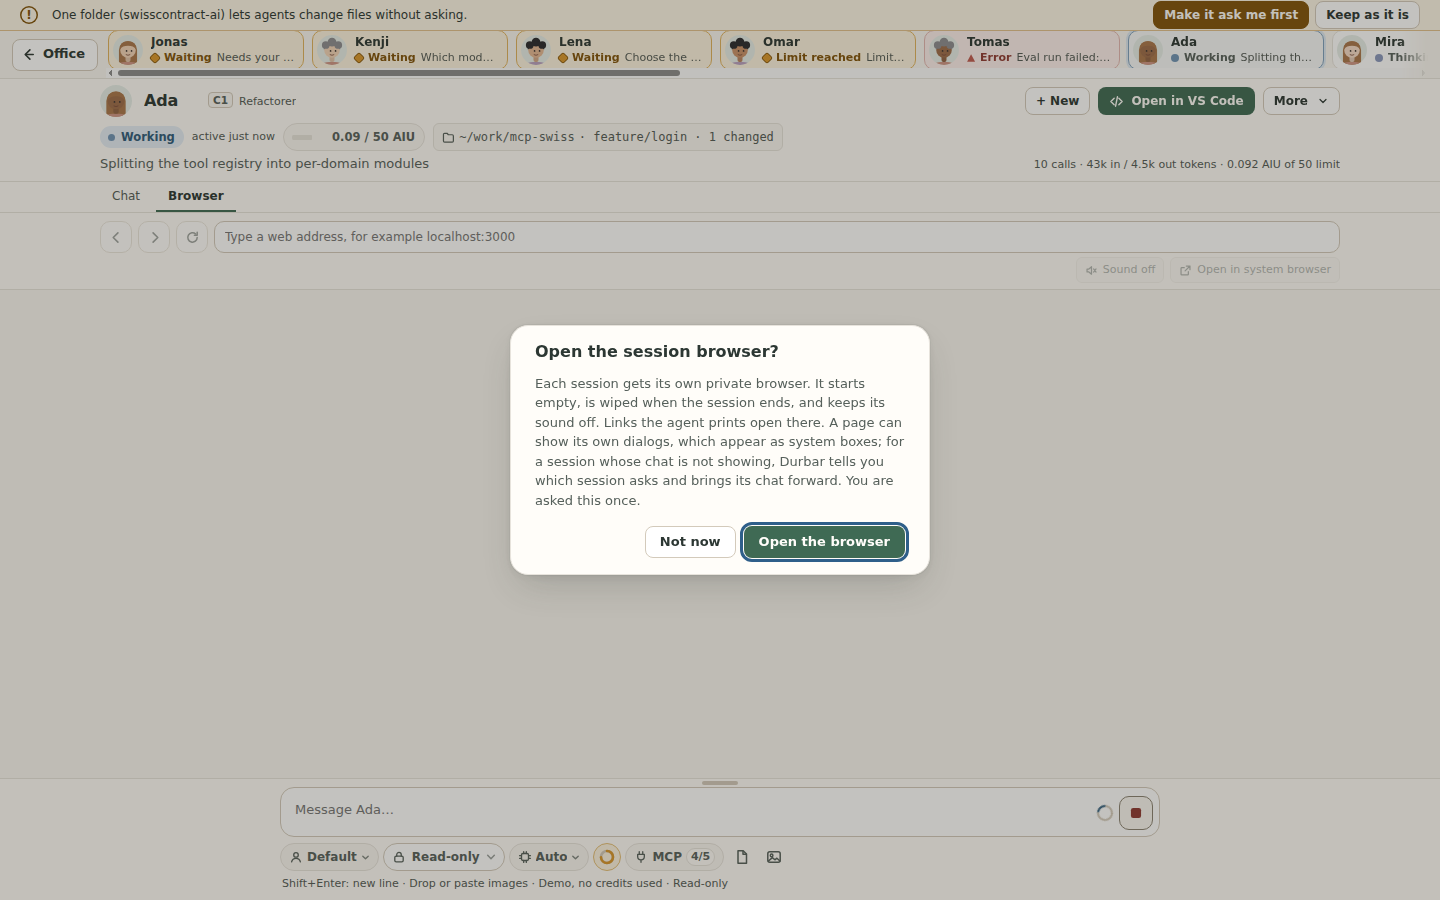
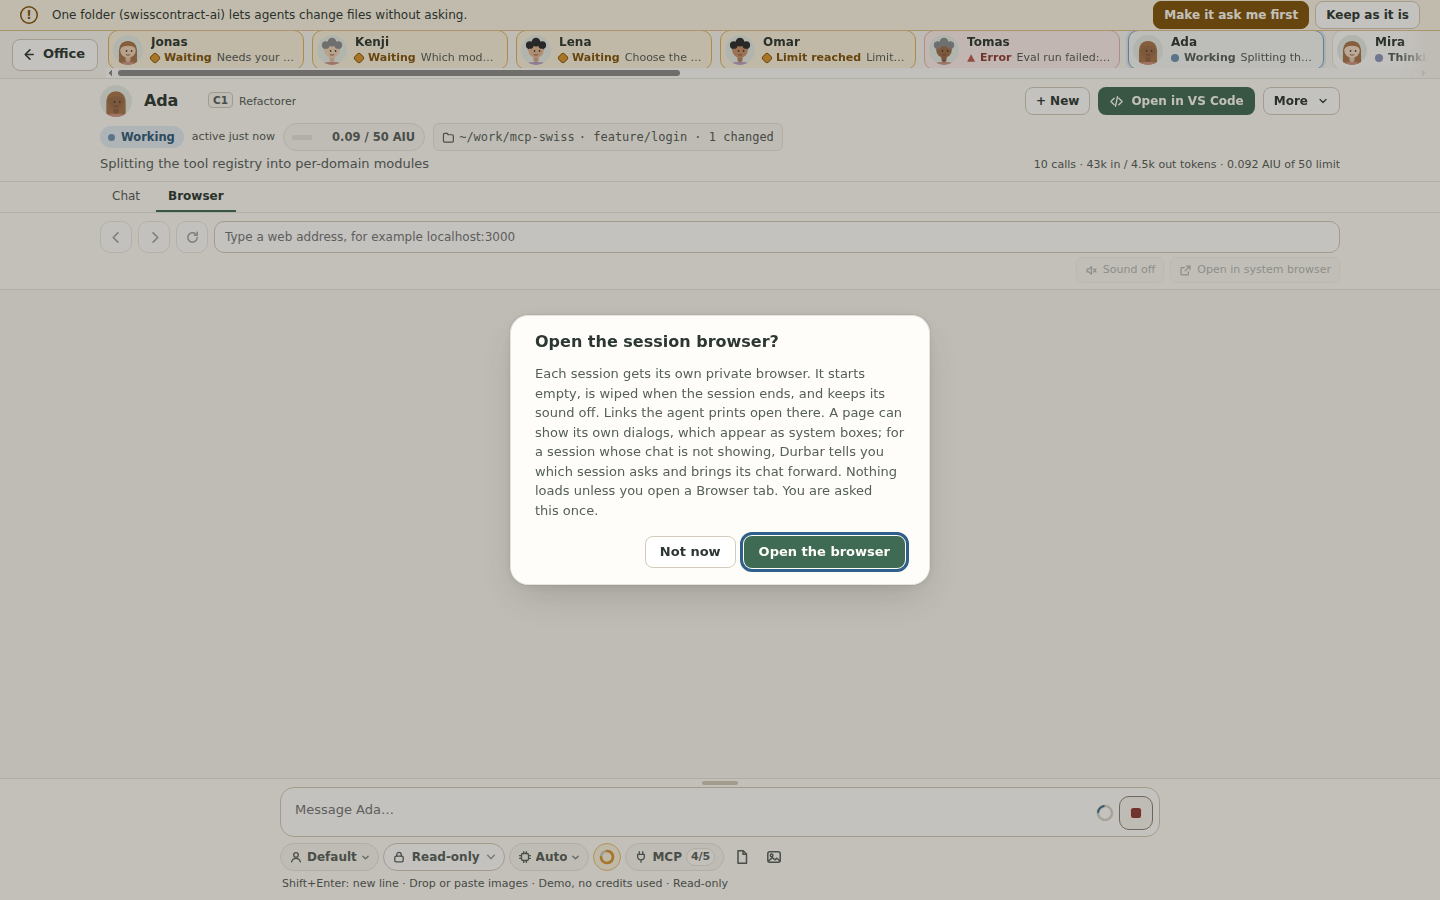
Session browser: spec 010 FR-023 delta for the 15 browser channels, consent says nothing loads unless a Browser tab is opened (KNOWN GAP: no off switch until T017), dialogs driver at 1280x800 too (review on #713)
Claude-Session: https://claude.ai/code/session_011q7Qoo6kXkNkw9EMzzHxXD

Changed region(s): [[0.3438, 0.3422, 0.6562, 0.6533]]

diff --git a/scripts/check-browser-tab.js b/scripts/check-browser-tab.js
@@ -189,7 +189,7 @@ module.exports = async (ctx) => {
         await wait(() => views().length === 1 && view() === viewNow, `${tag}: ${name}: the view is back when the overlay closes`);
         await wait(() => js(`!document.getElementById('bShot')`), `${tag}: ${name}: the picture is dropped`);
       };
-      await overlayCase('More menu', () => js(`document.getElementById('moreBtn').click()`), '#moreMenu', () => H.key('Escape', [], { char: 'never' }), tag === '1440x900' ? '080-browser-overlay-1440x900.png' : undefined);
+      await overlayCase('More menu', () => js(`document.getElementById('moreBtn').click()`), '#moreMenu', () => H.key('Escape', [], { char: 'never' }), `080-browser-overlay-${tag}.png`);
       await overlayCase('dialog', () => js(`void window.DurbarDialog(document)({title:'A question',body:'Shown over the page.',buttons:[{label:'Close',value:null}]});0`), '#modeDlg .dlg', () => H.clickText('#modeDlg .dbtn button', 'Close'));
       await overlayCase('toast', () => js(`(()=>{const t=document.createElement('div');t.className='toast';t.id='drvToast';t.textContent='A toast over the page';const box=document.getElementById('toasts');box.style.setProperty('--toast-b',Math.ceil(innerHeight-document.querySelector('#panel .composer').getBoundingClientRect().top+12)+'px');box.appendChild(t);})()`), '#drvToast', () => js(`document.getElementById('drvToast').remove()`));
       await overlayCase('slash list', () => js(`(()=>{const m=document.getElementById('msgInput');m.focus();m.value='/';m.dispatchEvent(new Event('input',{bubbles:true}));})()`), '#slashList', () => js(`(()=>{const m=document.getElementById('msgInput');m.value='';m.dispatchEvent(new Event('input',{bubbles:true}));})()`));

diff --git a/scripts/check-browser-dialogs.js b/scripts/check-browser-dialogs.js
@@ -3,7 +3,7 @@
  * and a hidden session's page dialog (toast, chat brought forward once, the *Dialog open* marker). Simulator only (no AI credits); run with
  * DURBAR_SIM_BROWSER_CONSENT=ask so the simulator asks the consent like the app does (it counts as accepted otherwise).
  *
- *   npm run check:ui -- --only check-browser-dialogs
+ *   npm run check:ui -- --only check-browser-dialogs   (1440x900; the suite also runs it at 1280x800)
  *
  *   1. the first Browser tab asks (text, buttons); Not now (and Esc) keep the Chat tab, create no view and write nothing; Open the browser
  *      opens it, is remembered in the settings file and is not asked again;
@@ -64,7 +64,8 @@ module.exports = async (ctx) => {
     wc.sendInputEvent({ type: 'mouseUp', x: r.x, y: r.y, button: 'left', clickCount: 1 });
   };
 
-  const W = 1440, Hh = 900, A = 'sim-1', B = 'sim-2';
+  const [W, Hh] = (process.env.BROWSER_DIALOGS_SIZE || '1440x900').split('x').map(Number); // the suite runs it at both sizes (BROWSER_DIALOGS_SIZE=1280x800)
+  const A = 'sim-1', B = 'sim-2';
   await H.load({ w: W, h: Hh, ready: 'fit', focus: true });
   const o = await H.openSimAgent(`a=>a.id===${jsLiteral(A)}`, '#panelTabs');
   assert.ok(o.ok, 'the chat of the first simulated agent is open: ' + JSON.stringify(o.seen));

diff --git a/scripts/test-browserpane.ts b/scripts/test-browserpane.ts
@@ -79,6 +79,7 @@ for (const needle of ['.dlg-ov', '[role="menu"]', '.mode-menu', '.more-menu', '#
 assert.ok(/overlay\(on\)/.test(src('src/renderer/browserpane.js')) && /bridge\.browserSnapshot\(id\)/.test(src('src/renderer/browserpane.js')) && /bridge\.browserOverlay\(id,true\)/.test(src('src/renderer/browserpane.js')), 'the pane takes a still picture, then hides the view');
 // FR-025d (Q2), FR-025e, FR-025d (Q3): consent, Leave and the hidden dialog, all through the shared askDialog and toast
 const pane2 = src('src/renderer/browserpane.js');
+assert.ok(/Nothing loads unless you open a Browser tab\./.test(pane2), 'the note says when the browser loads anything');
 assert.ok(/r\.needsConsent/.test(pane2) && /Not now/.test(pane2) && /Open the browser/.test(pane2) && /browserConsentAccept/.test(pane2), 'the consent: Not now / Open the browser, remembered through main');
 assert.ok(/title:'Leave this page\?'/.test(pane2) && /Leave, then click again\./.test(pane2) && /label:'Stay',value:null/.test(pane2) && /cls:'primary warn'/.test(pane2), 'the Leave box: Stay is the cancel (focused first), Leave is the warn choice');
 assert.ok(/browserLeaveAnswer\(a\.req,!!\(r&&r\.value==='leave'\)\)/.test(pane2), 'the answer goes to main; Esc and Stay are not Leave');

diff --git a/src/renderer/browserpane.js b/src/renderer/browserpane.js
@@ -193,7 +193,7 @@
   async function askConsent(){
     if(!host.ask)return false;
     const r=await host.ask({title:'Open the session browser?',
-      body:'Each session gets its own private browser. It starts empty, is wiped when the session ends, and keeps its sound off. Links the agent prints open there. A page can show its own dialogs, which appear as system boxes; for a session whose chat is not showing, Durbar tells you which session asks and brings its chat forward. You are asked this once.',
+      body:'Each session gets its own private browser. It starts empty, is wiped when the session ends, and keeps its sound off. Links the agent prints open there. A page can show its own dialogs, which appear as system boxes; for a session whose chat is not showing, Durbar tells you which session asks and brings its chat forward. Nothing loads unless you open a Browser tab. You are asked this once.',
       buttons:[{label:'Not now',value:null},{label:'Open the browser',value:'ok',cls:'primary'}]});
     if(!r||r.value!=='ok')return false;
     const a=await bridge.browserConsentAccept().catch(()=>null);

diff --git a/scripts/ui-suite.js b/scripts/ui-suite.js
@@ -86,6 +86,7 @@ const DRIVERS = [
   { name: 'check-ui-text' }, // spec 052 FR-171: wrapping, sizes, box widths, field weight, dark contrast
   { name: 'shots-074-navigator', env: { DURBAR_SIM_FLOORS: '1' } }, // spec 074: Go to (keyboard navigator), chat numbers, the shortcut in Settings
   { name: 'check-browser-dialogs', env: { DURBAR_SIM_BROWSER_CONSENT: 'ask' } }, // spec 080 T015 AC6: the once-per-app consent, Leave this page?, a hidden session's page dialog (toast, chat forward once, marker)
+  { name: 'check-browser-dialogs', label: 'check-browser-dialogs 1280', env: { DURBAR_SIM_BROWSER_CONSENT: 'ask', BROWSER_DIALOGS_SIZE: '1280x800' } }, // the same at 1280x800: the note, Leave this page?, the hidden dialog's toast
   { name: 'check-browser-tab' }, // spec 080 T014/T015/T018: Chat | Browser tabs, the bar, the native view's attach and detach, the simulator's test pages, two sessions' own views
 ];
 

diff --git a/specs/080-session-browser/spec.md b/specs/080-session-browser/spec.md
@@ -595,7 +595,7 @@ T010 ran (research R1a, `sim:`, Electron 44.8.0, Linux, Xvfb, one run per case).
   - **Simulator test pages** (FR-091, T018 AC1-AC2): the scheme is `durbar-sim:` (host `pages`), registered as privileged only when `DURBAR_SIM` is set (`registerSimScheme`) and installed per view partition only then (`installSimPages`; the address bar and `viewNavigationAllowed` refuse it otherwise). Pages: index, links, form (POST), GET form, download, file input, slow load (`?ms=`), a `beforeunload` page, and the `alert` (delay and count in the query), `confirm` and `prompt` pages (`check-browser-dialogs` uses `beforeunload` and `alert`; no driver answers `confirm` or `prompt` yet). Not yet built from T018 AC2: the password, `one-time-code` and `cc-number` fields, the sliding element, the script redirect and the basic-auth challenge; T018 AC3 and AC4 are open.
   - **Layout.** The tabs sit under the header (`Chat`, `Browser`); the browser bar and its status row replace the chat area; the answer bar and the message box stay where they are on both tabs, so a request that needs the user is never hidden. The chat stays in the page (zero height, `visibility: hidden`) so its scroll position survives. A rebuilt panel of the same session (a rename) keeps its tab.
   - **Overlays win (T016, FR-008) `[IMPLEMENTED]` on the simulator** (`sim:` `check-browser-tab`, `test:browserpane`, `test:browseripc`). One `overlayOpen` / `overlayClose` helper in `app.js`; because many call sites would each have to remember it, one `MutationObserver` finds the shared menu, `askDialog`, toasts, the slash list and popovers where they appear (`OVERLAY_SEL`) and calls the helper while one covers the page area. Main takes the view off the window (`browser:overlay`); the still picture (`browser:snapshot`: an in-memory data URL from `capturePage`, never written) is optional, taken first with a 300 ms limit in main and a 600 ms limit in the pane. When a page dialog stalls the capture, the area stays empty behind the overlay and the view still goes. A chat brought forward under an open overlay (a hidden dialog's pull-forward) starts with the view off: the pane sets main's overlay flag before it attaches, and an overlay that closes while the attach is in flight lifts the cover (`overlaySync` also checks `BP.covered()`). `[KNOWN GAP]` the browser's own native tooltips (`title`) are drawn by the system above everything and are not handled; the app has no custom tooltip element.
-  - **The one-time note (T015 AC6, Q2) `[IMPLEMENTED]` on the simulator** (`check-browser-dialogs`, `test:browseripc`): main refuses to make a view until `browserNoteAccepted` is in the settings file (`parseSettings`), so the window cannot skip it; the first Browser tab asks through `askDialog` (*Not now* / *Open the browser*); *Not now* and Esc keep the Chat tab, write nothing and ask again next time. Under the simulator the note counts as accepted unless `DURBAR_SIM_BROWSER_CONSENT=ask`, so every other driver reaches the tab. The text does not yet name *Settings > Open chat links in* (T017 AC3 builds that setting; the line is added with it).
+  - **The one-time note (T015 AC6, Q2) `[IMPLEMENTED]` on the simulator** (`check-browser-dialogs`, `test:browseripc`): main refuses to make a view until `browserNoteAccepted` is in the settings file (`parseSettings`), so the window cannot skip it; the first Browser tab asks through `askDialog` (*Not now* / *Open the browser*); *Not now* and Esc keep the Chat tab, write nothing and ask again next time. Under the simulator the note counts as accepted unless `DURBAR_SIM_BROWSER_CONSENT=ask`, so every other driver reaches the tab. The text says what the browser does and that nothing loads unless a Browser tab is opened. `[KNOWN GAP]` Vikram asked that it also say how to stop it: after accepting there is no off switch yet (the note is never asked again and a Browser tab still opens when clicked); *Settings > Open chat links in* comes with T017 AC3 and the line naming it is added then. Nothing else loads a view before that.
   - ***Leave this page?* (FR-025e, Q1) `[IMPLEMENTED]` on the simulator**: `askLeave` goes to the window as `browser:leave` and comes back as `browser:leaveAnswer`; *Stay* is the cancel button and has the focus, *Leave* is the warn choice, and the line *Leave, then click again.* shows when main did not start the navigation. A reloaded window page or an ended session drops the waiting question (Stay).
   - **A hidden session's page dialog (FR-025d, Q3) `[IMPLEMENTED]` on the simulator**: the toast *A page in <session> is asking: "…"* (text masked and cut to 80 characters in main, marked as page text), the session's chat brought forward on its Browser tab at most once per session until the user opens that chat themselves, and the *Dialog open* marker on its strip item and Browser tab until `Page.javascriptDialogClosed`. The office desks show the marker too (`dialogHTML`); no driver checks that. T015 AC2's bar note for a dialog main closed for the agent is built and unit-tested (`barModel`); it cannot show before Phase 2.
   - **`[KNOWN GAP]`** Linux only, on Xvfb without a window manager; not run on Windows or macOS. The window's zoom factor is applied when the rectangle is sent, not when the zoom changes by itself.

diff --git a/README.md b/README.md
@@ -315,7 +315,7 @@ npm run changelog:check   # check the changelog.d/ fragments (in npm test); chan
 - **MCP sign-ins (Claude Code):** **Sign in** uses Claude Code's undocumented `mcp_authenticate` request, read from version 2.1.304 only and not checked on a real account (T106). Without a system keyring (common on Linux), Claude Code and Codex keep an MCP sign-in in a plain `.credentials.json` file in their own settings folder; Agent Durbar does not read or change it.
 - **Imported MCP config:** importing from `.vscode/mcp.json` is a one-time copy per folder.
 - **MCP servers for all folders** ([spec 069](specs/069-mcp-global-controls/spec.md)): the three agent apps read the written entries (T060, 2026-10-22), and Claude Code and Codex pass a referenced variable's value; whether Copilot expands `${NAME}` references (Q6) is not verified (it needs a signed-in Copilot session).
-- **The session browser** (spec 080) was built and checked on Linux with the simulator only (its own test pages): not on a real desktop with real sites, Windows or macOS. A browser's own `title` tooltips are drawn by the system above the page. A page's system dialog does not name its session (Durbar's toast does and brings that chat forward). Two small Chromium files appear in the app's default profile once any browser view exists; what they hold is not identified (spec 080 FR-023a), so Durbar says only that the session's own profile writes nothing. Chat links do not open in the Browser tab yet (T017); they still open in your system browser. Downloads are cancelled for now, and `prompt()` does not work in a page.
+- **The session browser** (spec 080) was built and checked on Linux with the simulator only (its own test pages): not on a real desktop with real sites, Windows or macOS. A browser's own `title` tooltips are drawn by the system above the page. A page's system dialog does not name its session (Durbar's toast does and brings that chat forward). Two small Chromium files appear in the app's default profile once any browser view exists; what they hold is not identified (spec 080 FR-023a), so Durbar says only that the session's own profile writes nothing. There is no setting to switch the browser off yet: after you accept the one-time note, a Browser tab opens when you click it, and nothing loads before that (the *Open chat links in* setting comes with T017). Chat links do not open in the Browser tab yet (T017); they still open in your system browser. Downloads are cancelled for now, and `prompt()` does not work in a page.
 - **Moving targets:** harness protocols change, so versions are pinned and checked.
 
 ## Roadmap

diff --git a/specs/010-simulator/spec.md b/specs/010-simulator/spec.md
@@ -87,6 +87,7 @@ Developers capture screenshots at fixed sizes and drive the real window with scr
 ## Changes
 
 - **2026-10-17, spec 033 (floors), cross-reference.** `DURBAR_SIM_FLOORS=1` (`?simfloors=1`) seeds three floors and spreads the rooms over them; `DURBAR_SIM_FLOORS_OFF=<names>` (`?floorsoff=`) starts them off. The simulator's `+ Folder` now registers the new folder as a simulated (idle) agent so it has a floor and can be moved; it still sends no events until you write to it.
+- **2026-10-25, spec 080 (session browser), delta to FR-023** (*decided by the coordinator under Ruben's delegation*). FR-023's open list is no longer only `harness:plans`, `app:version` and `window:titleDoubleClick`: the fifteen `browser:*` channels (`open`, `state`, `navigate`, `back`, `forward`, `reload`, `stop`, `bounds`, `visible`, `overlay`, `mute`, `openSystem`, `consentAccept`, `snapshot`, `leaveAnswer`) are on `SIM_OPEN_CHANNELS` in `src/main/simguard.ts`, each with its reason. Why: the simulator's window talks to its own stand-in API, but the session browser is a native view that only main can create, so the Browser tab calls the real preload API. They reach no adapter, router, scheduler or agent app: a view loads the simulator's own `durbar-sim:` test pages or an http(s) address typed in the window, and `browser:openSystem` opens nothing under the simulator. Under `DURBAR_SIM` main also accepts `sim-<n>` as a session id (the simulated agents exist only in the window; helpers are not top-level); outside it only the ids of `agents` count. `test:simguard` keeps its scan (an open handler may not name an adapter, router, scheduler or spawn) and limits the open list to three channels outside the `browser:` family.
 
 ### 2026-10-16: dev/test hooks are ignored in packaged builds (audit gap 2; closes FR-009 and T022)
 
